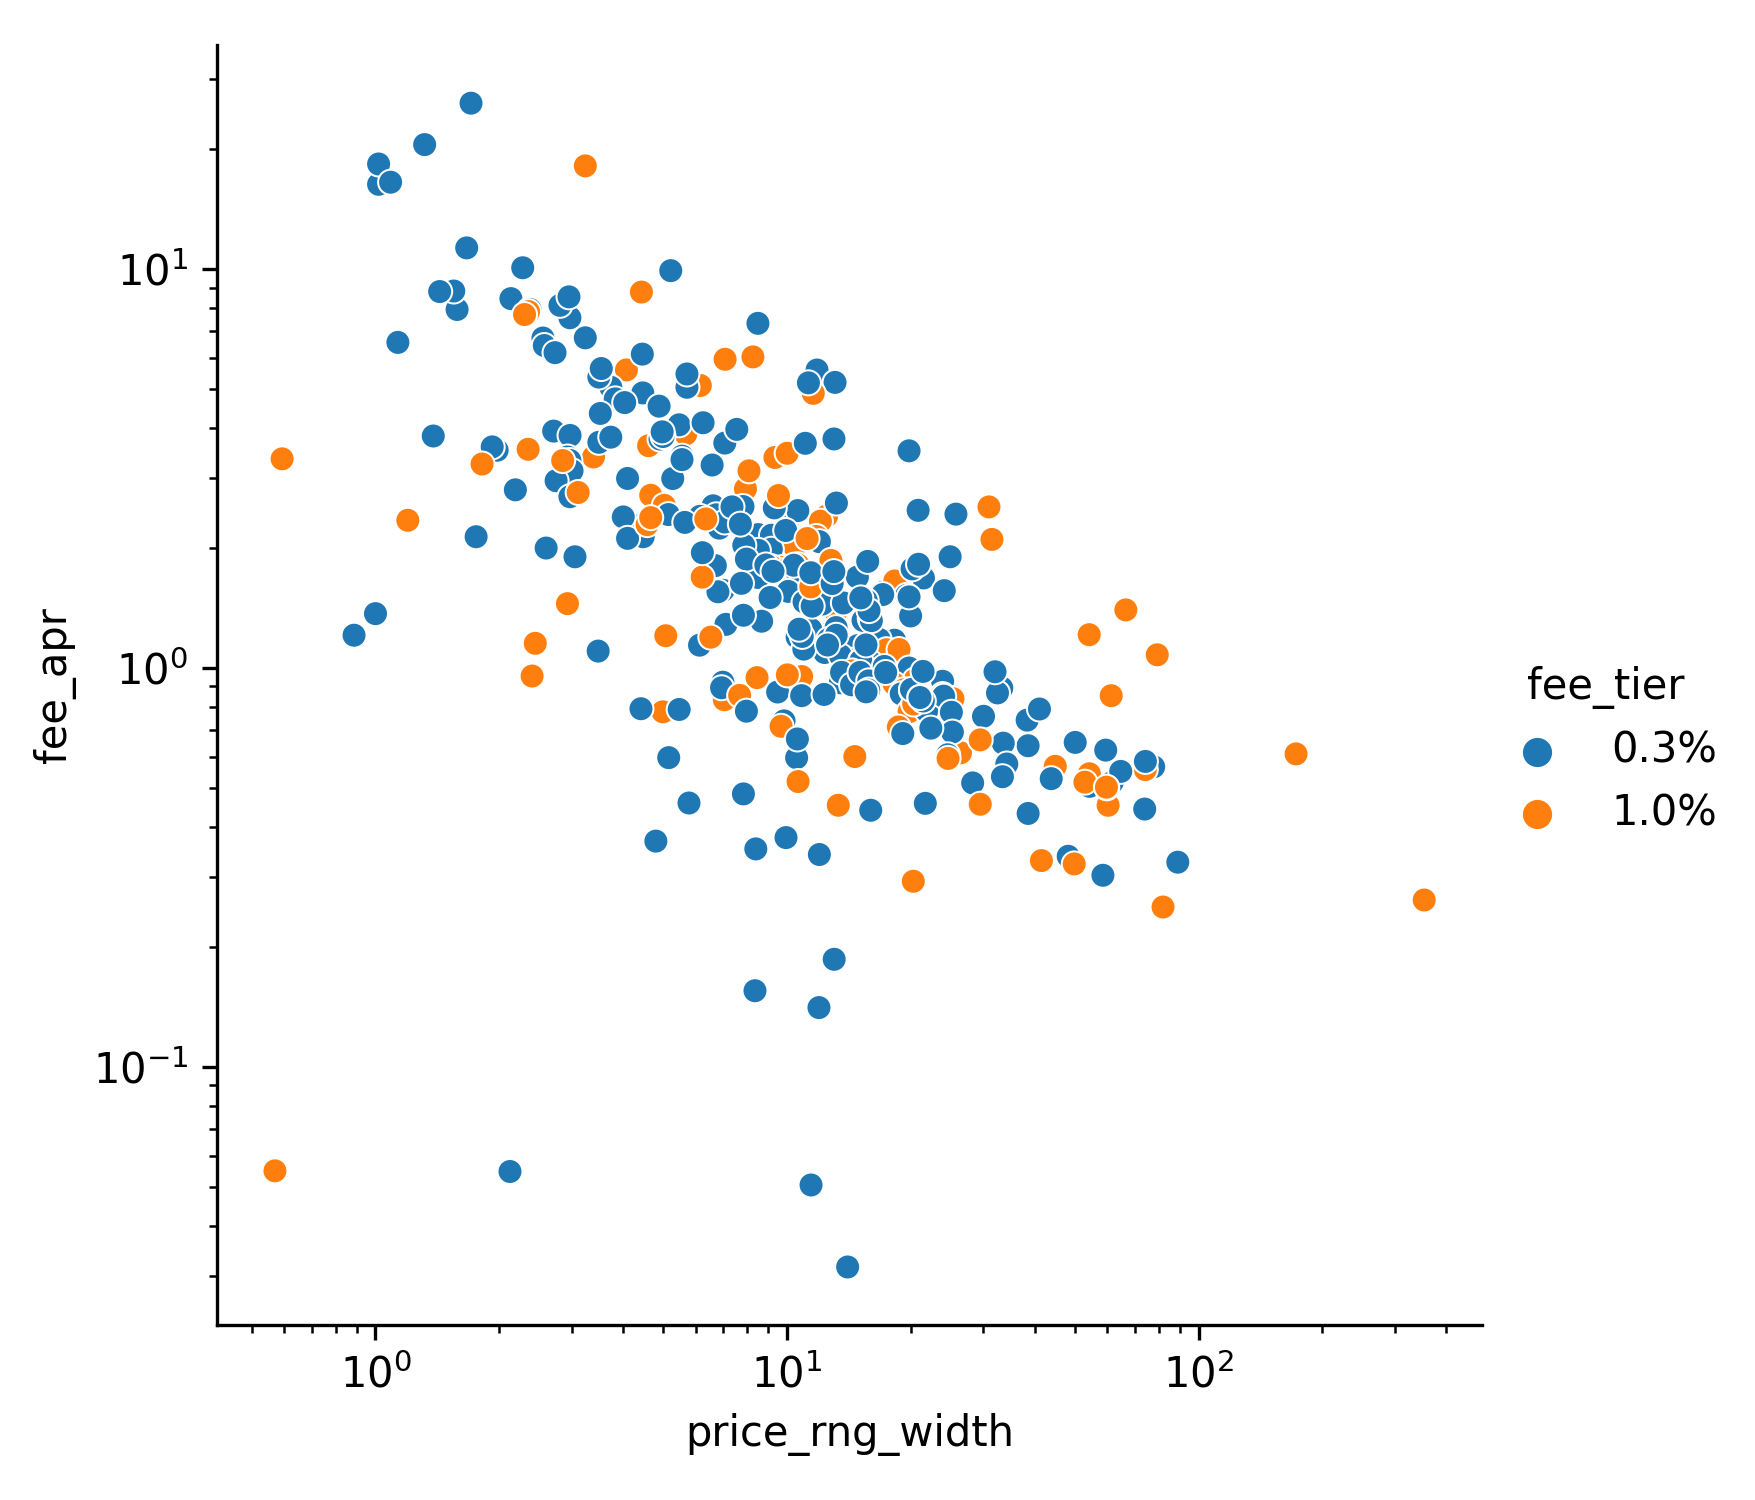
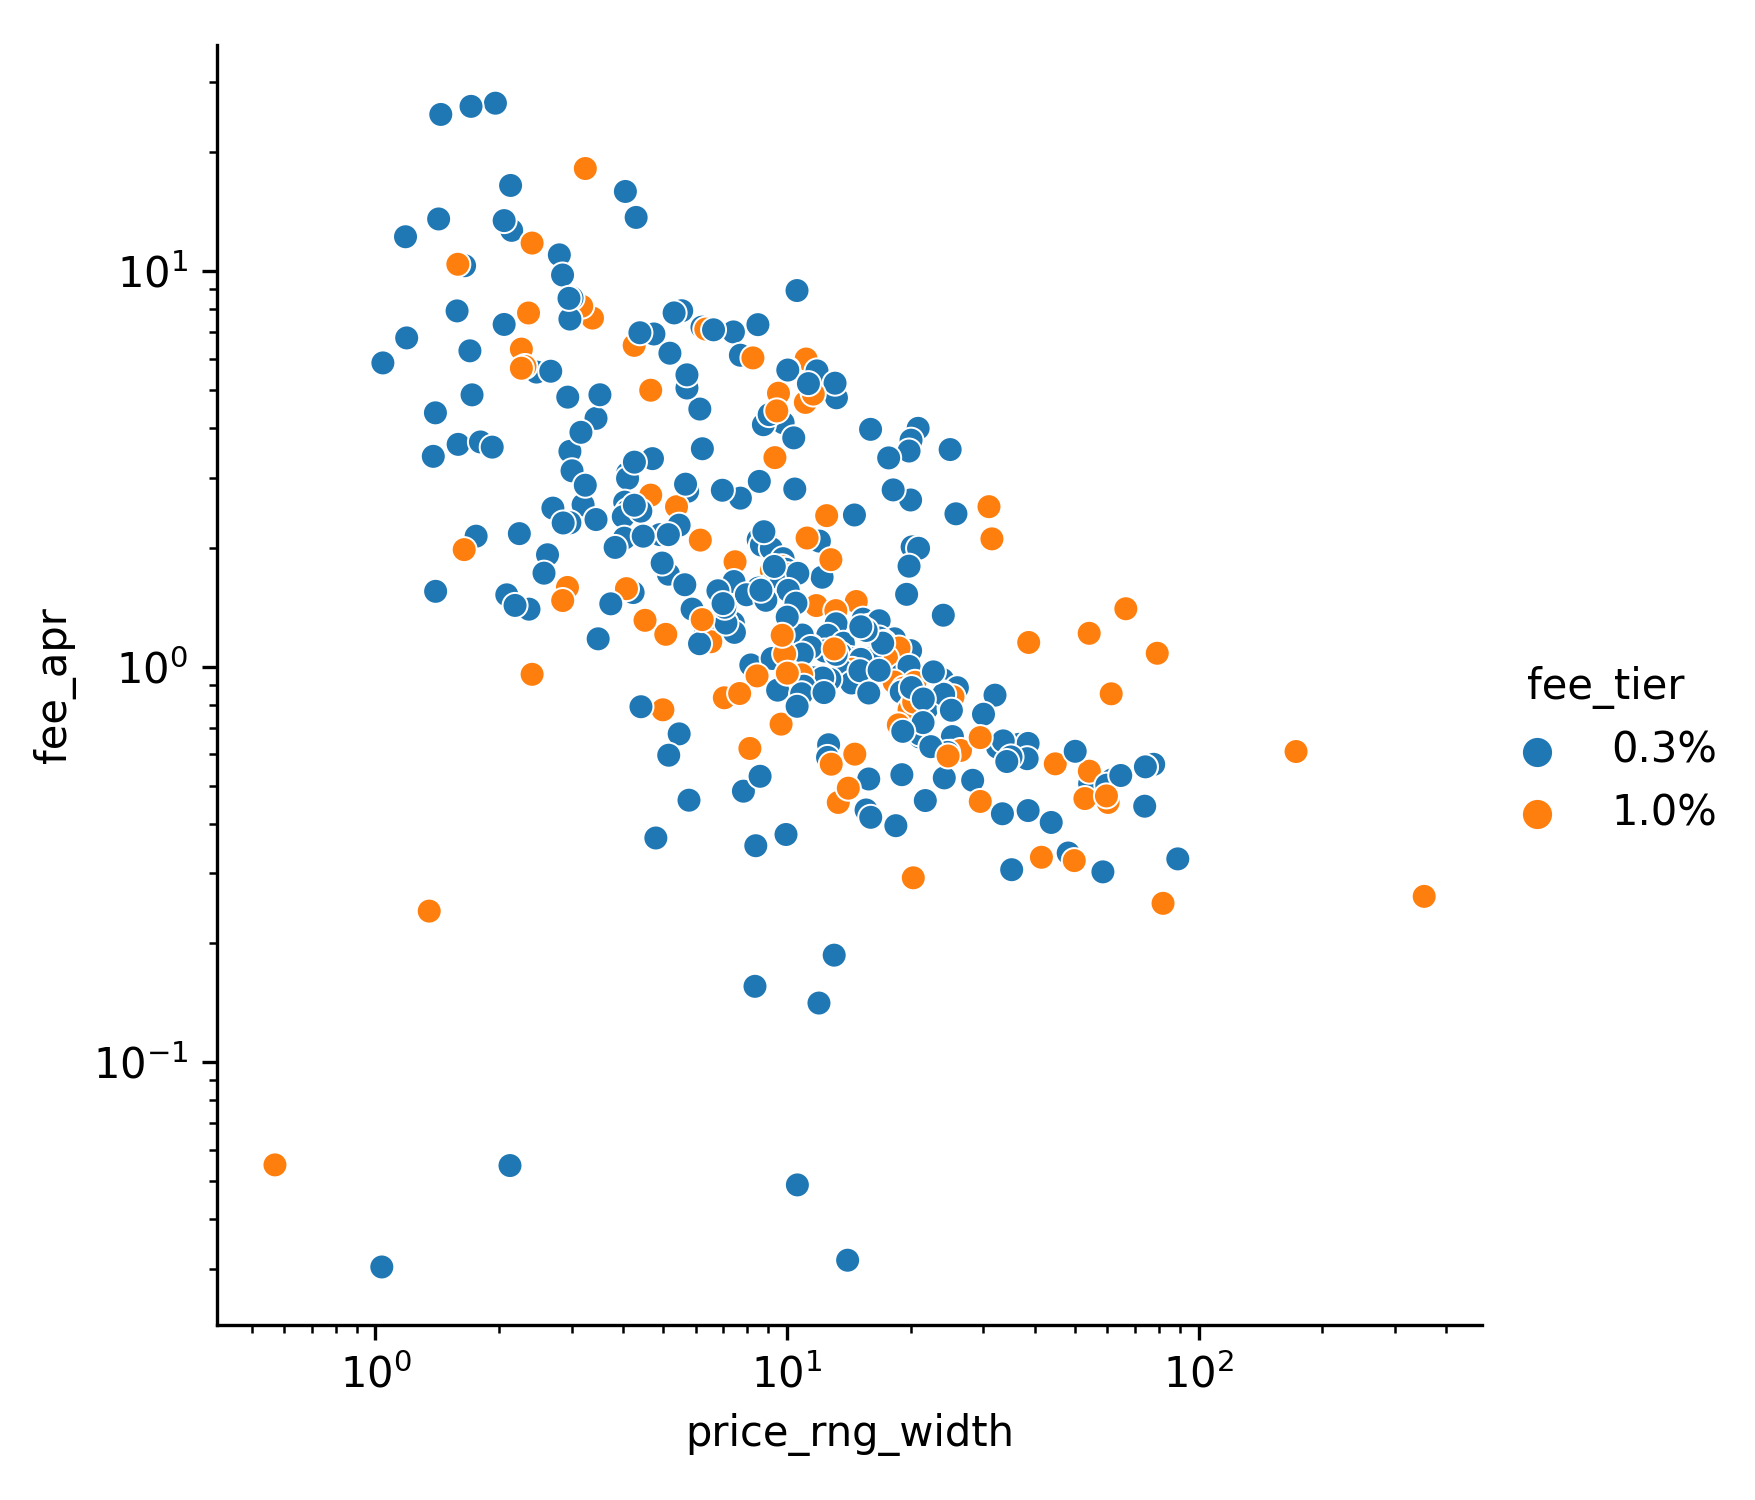
rerun with new data

diff --git a/scripts/03-model-roi-n-fee-apr-wbtc-weth.py b/scripts/03-model-roi-n-fee-apr-wbtc-weth.py
@@ -82,6 +82,10 @@ cond8 = (df.price_lower >= price_lower_cutoff) & \
 df = df[cond8]
 len(df)
 
+# drop positions with 0 fee apr
+df = df[df.fee_apr > 0]
+len(df)
+
 # only focus on these columns
 cols = ['fee_tier', 'age', 'in_range', 'deposits_value', 'il', 
         'roi', 'apr', 'fee_apr', # 'pool_apr', # pool_apr is apr_excluding_gas
